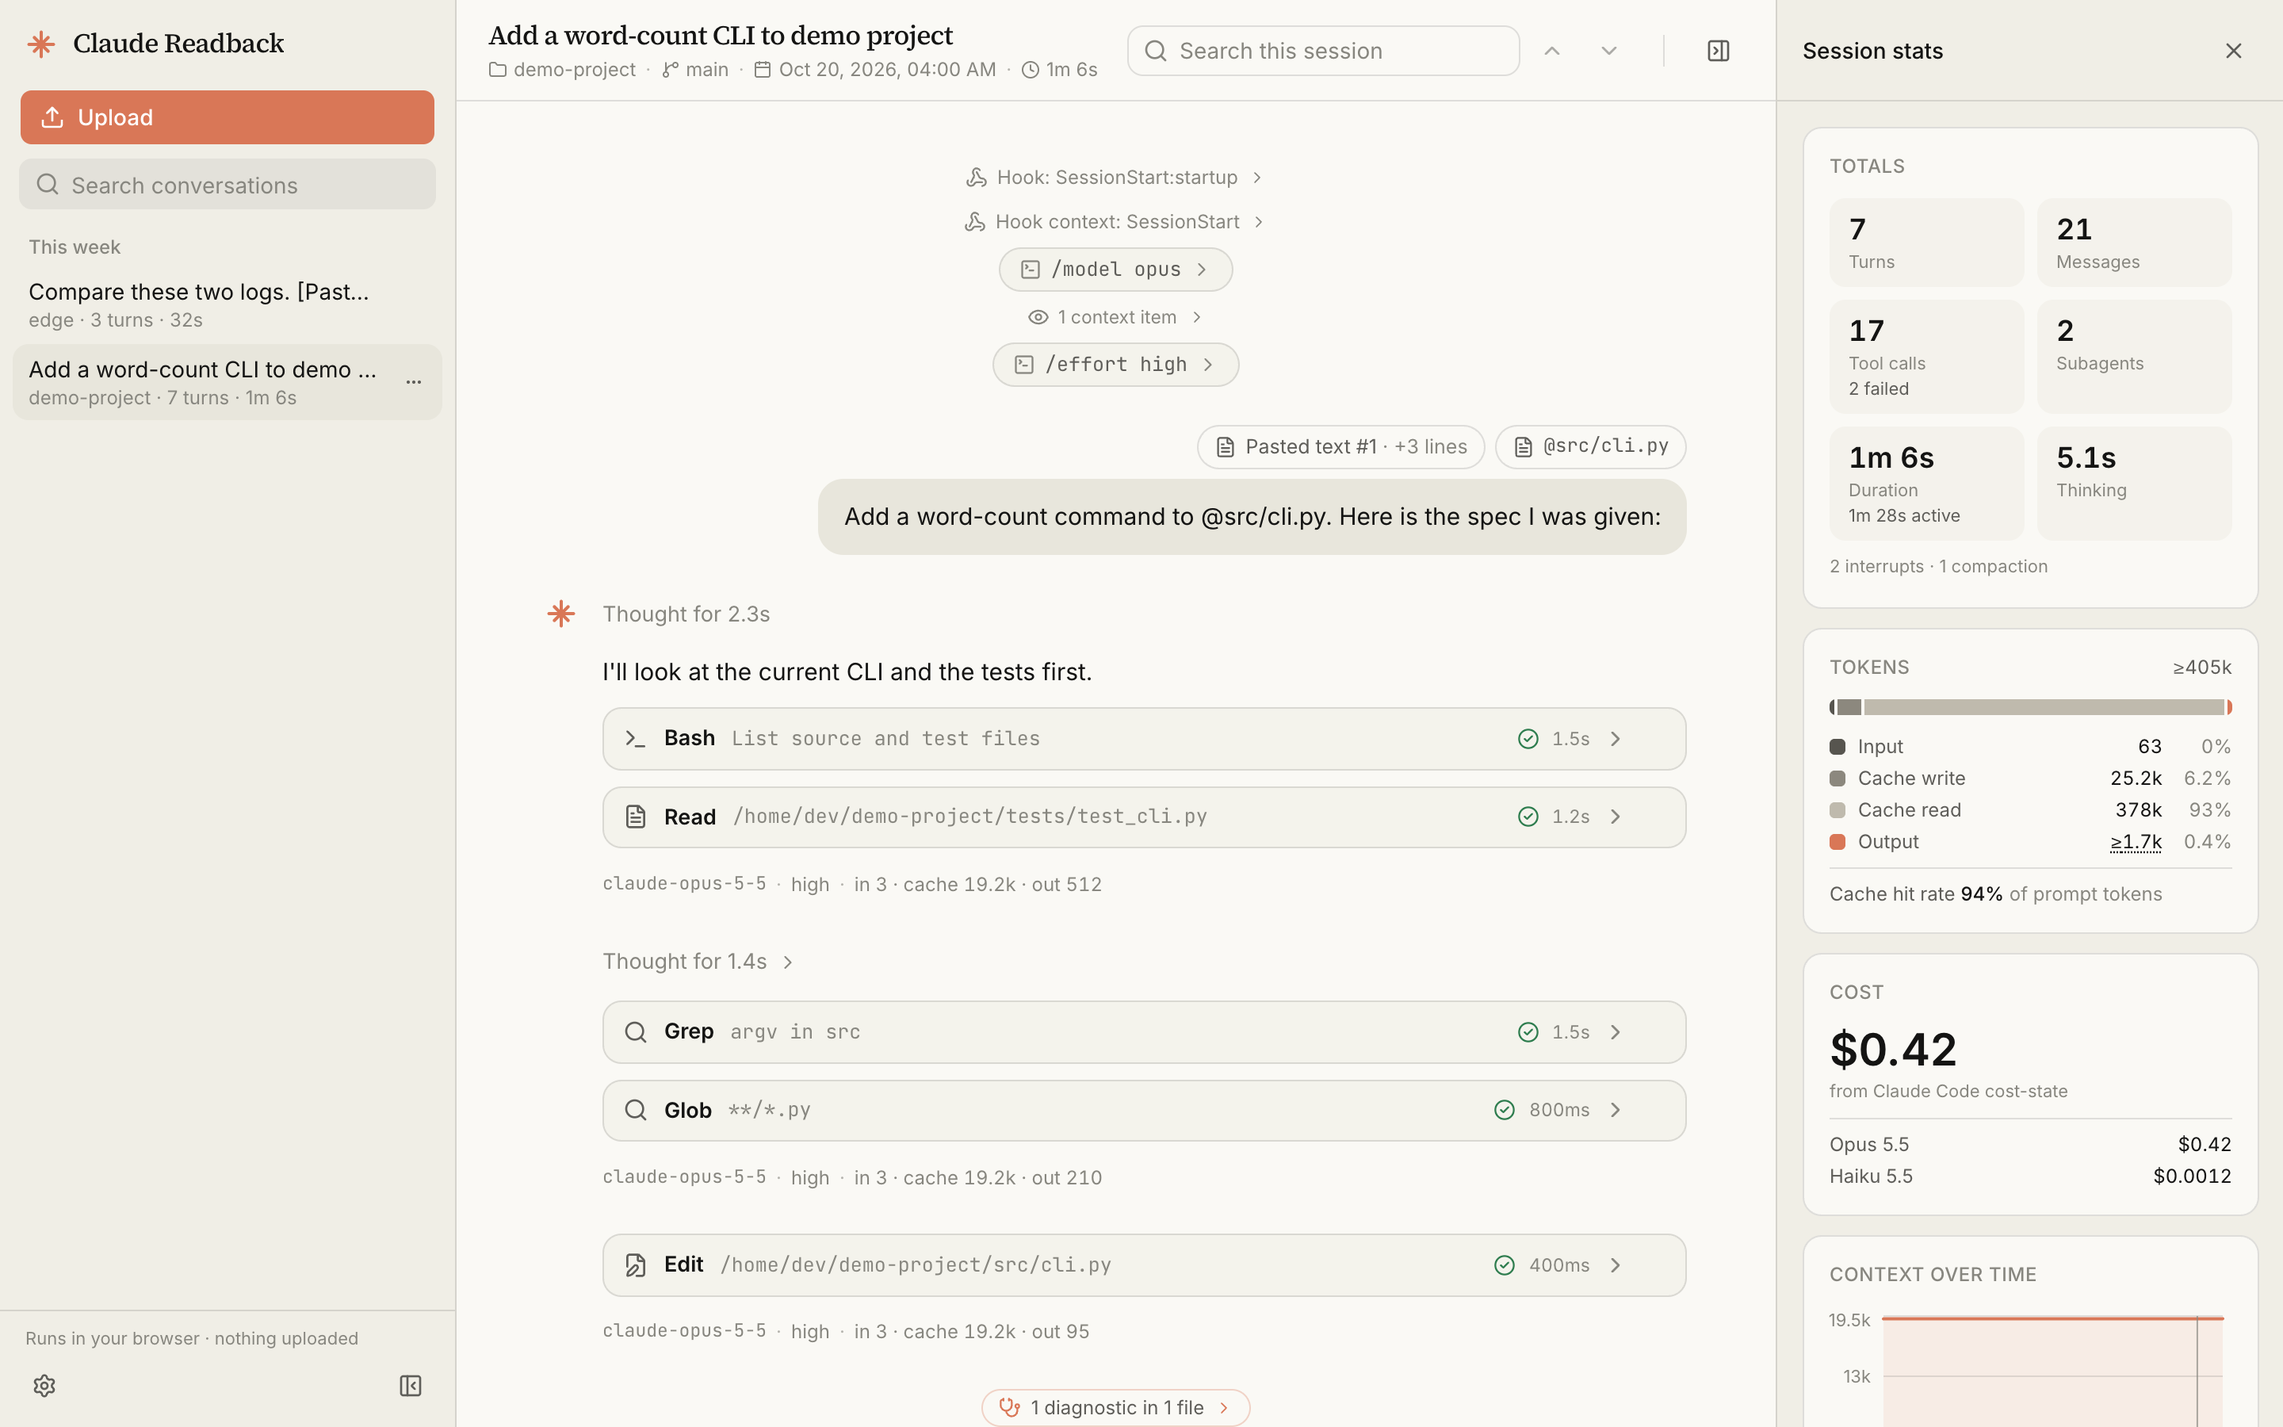
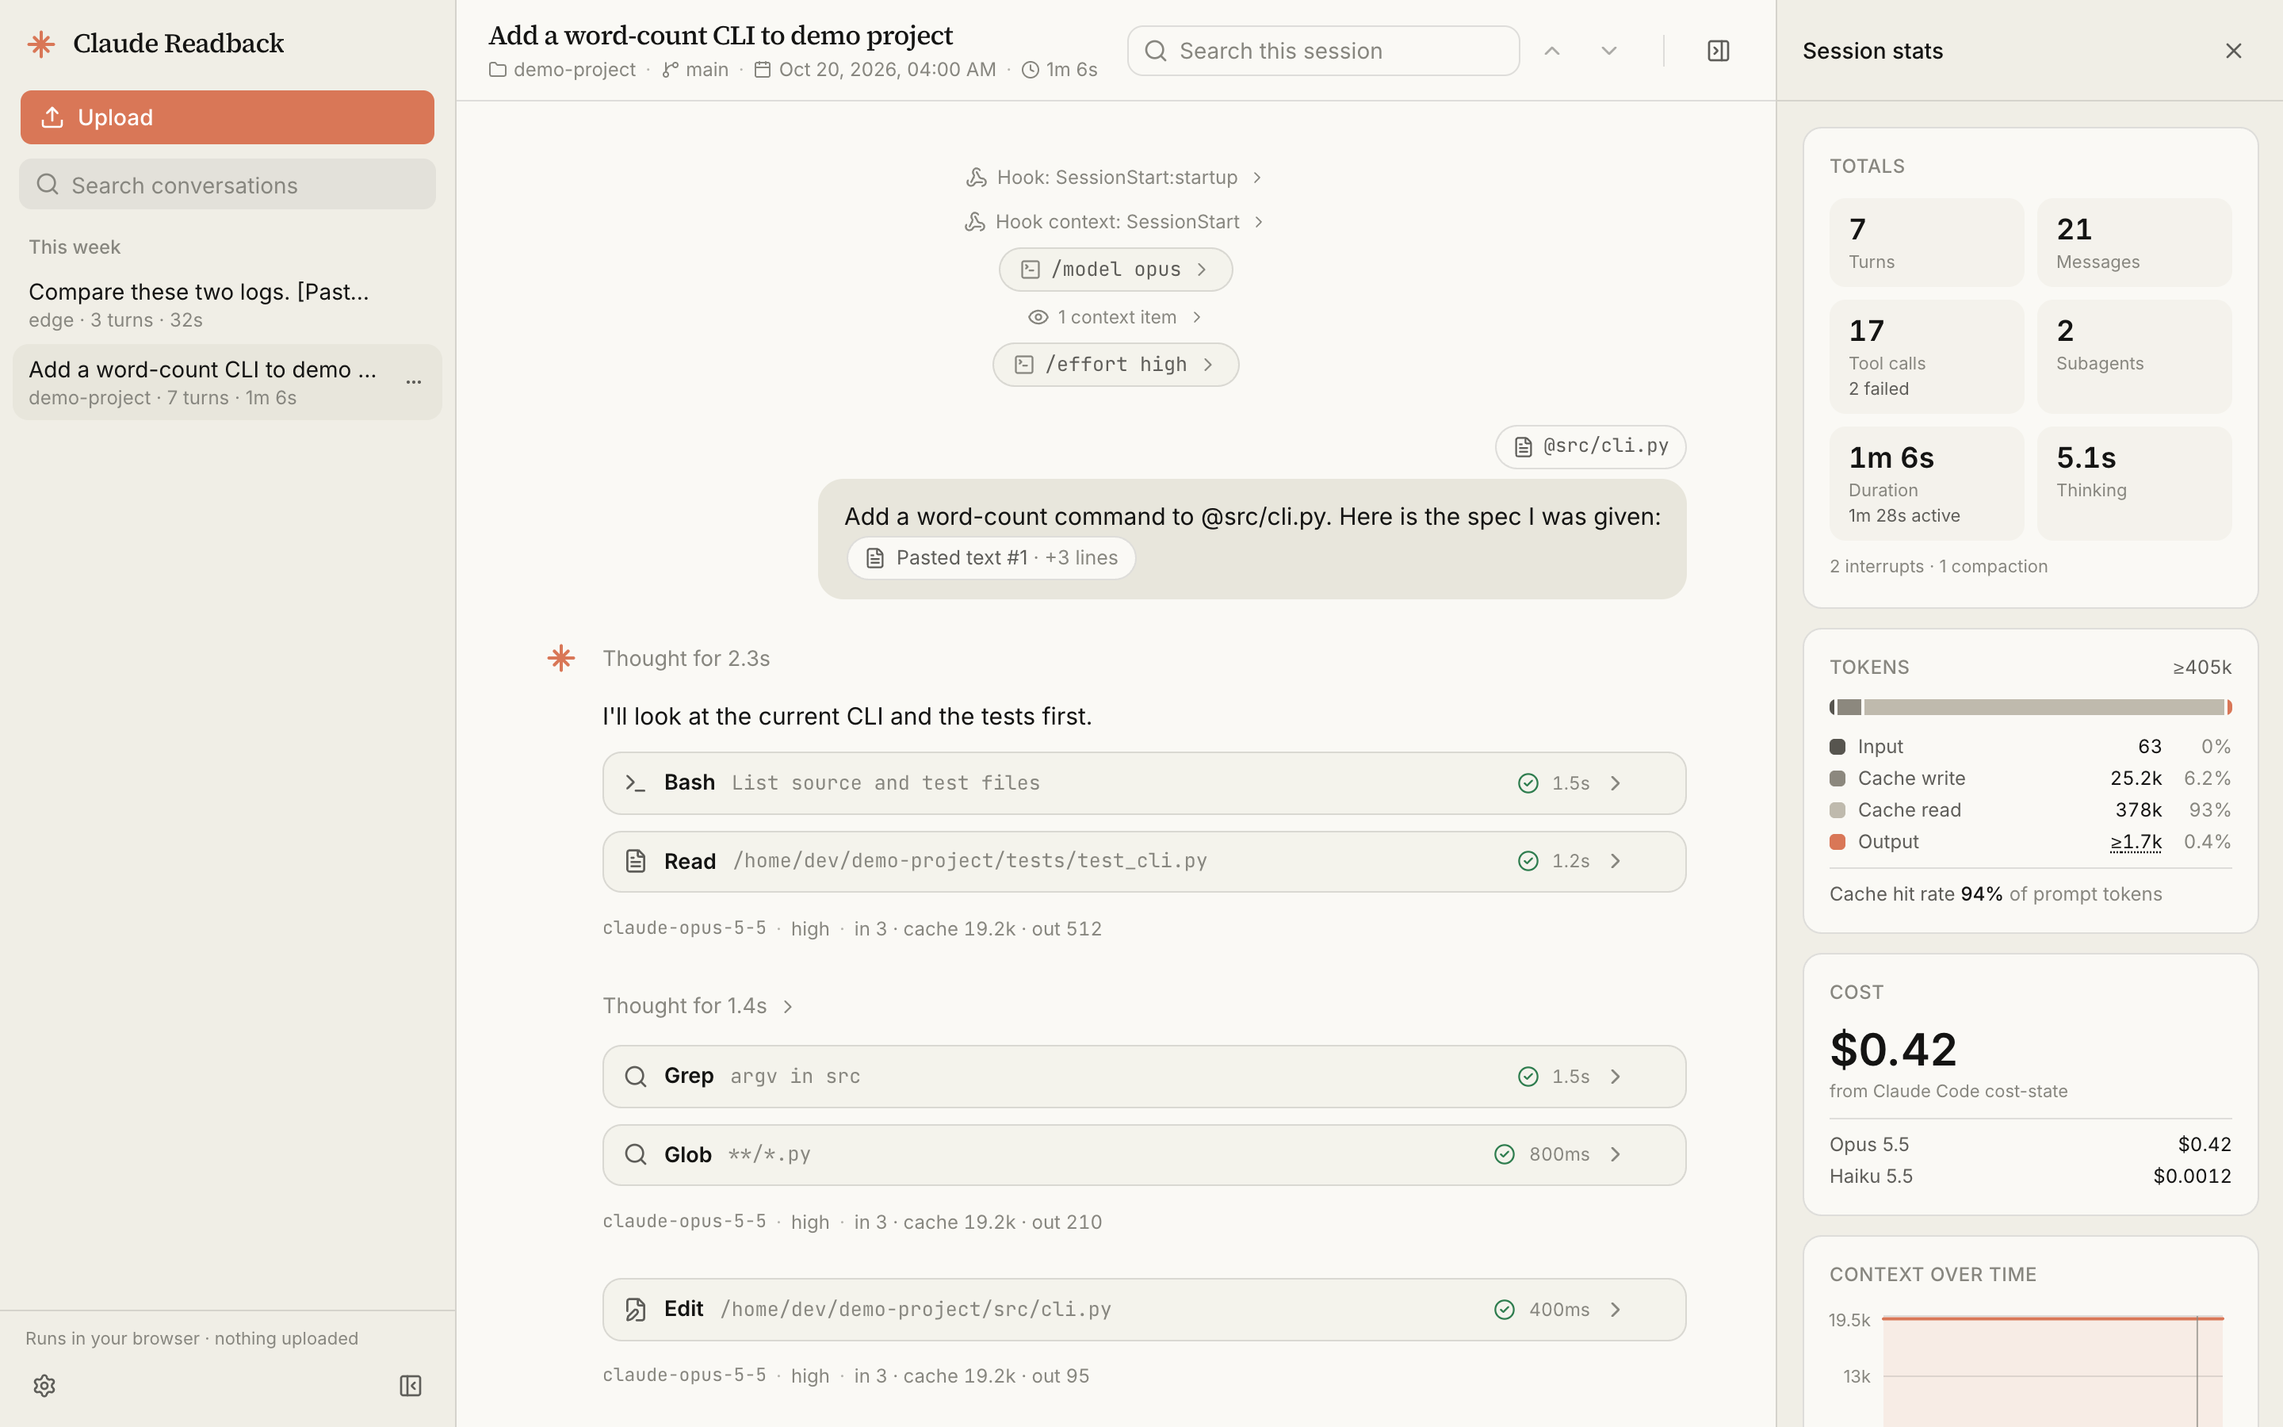
show pasted text chips inline in the bubble

diff --git a/src/components/chat/UserBubble.tsx b/src/components/chat/UserBubble.tsx
@@ -1,13 +1,51 @@
 import type { ReactNode } from 'react'
-import { highlightText } from '@/components/common/highlight'
+import { highlightText, splitActive } from '@/components/common/highlight'
+import type { PromptSegment } from '@/lib/transcript/types'
 import { cn } from '@/lib/utils'
 import { useSearchQuery } from './chatStore'
+import { PastedTextChip } from './PastedTextChip'
+import { promptBody } from './util'
 
-type Props = { text: string; activeIndex?: number; className?: string; children?: ReactNode }
+type Props = {
+  /** Plain text body. */
+  text?: string
+  /** Prompt segments: prose with pasted blocks as inline chips where they were pasted. Wins over `text`. */
+  segments?: readonly PromptSegment[]
+  /** Row the bubble renders in; scopes search hits inside inline chips. */
+  rowId?: string
+  activeIndex?: number
+  className?: string
+  children?: ReactNode
+}
 
 /** Right-aligned user bubble: plain text, whitespace preserved, no markdown or links. */
-export function UserBubble({ text, activeIndex, className, children }: Props) {
+export function UserBubble({ text, segments, rowId, activeIndex, className, children }: Props) {
   const query = useSearchQuery()
+  let body: ReactNode
+  if (segments) {
+    const parts = promptBody(segments)
+    const actives = splitActive(
+      parts.map((p) => (p.kind === 'text' ? p.text : undefined)),
+      query,
+      activeIndex,
+    )
+    body = parts.map((p, i) =>
+      p.kind === 'text' ? (
+        <span key={i}>{highlightText(p.text, query, actives[i])}</span>
+      ) : (
+        <PastedTextChip
+          key={p.id}
+          rowId={rowId}
+          index={p.index}
+          lines={p.lines}
+          text={p.text}
+          className="mx-0.5 align-middle"
+        />
+      ),
+    )
+  } else {
+    body = highlightText(text ?? '', query, activeIndex)
+  }
   return (
     <div
       className={cn(
@@ -16,7 +54,7 @@ export function UserBubble({ text, activeIndex, className, children }: Props) {
       )}
     >
       {children}
-      {highlightText(text, query, activeIndex)}
+      {body}
     </div>
   )
 }

diff --git a/src/components/chat/__tests__/rendering.test.tsx b/src/components/chat/__tests__/rendering.test.tsx
@@ -299,7 +299,7 @@ describe('Edit tool card', () => {
 })
 
 describe('pasted-only prompts', () => {
-  it('render the chip without an empty bubble', () => {
+  it('render the chip inside the bubble', () => {
     const turn = {
       ...session.turns.find((t) => t.kind === 'human')!,
       id: 'turn-pasted-only',
@@ -311,7 +311,36 @@ describe('pasted-only prompts', () => {
       },
     }
     renderInChat(<UserPromptRow turn={turn} />, session)
-    expect(screen.getByRole('button', { name: /Pasted text #9/ })).toBeInTheDocument()
-    expect(screen.getByTestId('user-prompt').querySelector('.bg-bubble')).toBeNull()
+    const bubble = screen.getByTestId('user-prompt').querySelector('.bg-bubble')!
+    expect(within(bubble as HTMLElement).getByRole('button', { name: /Pasted text #9/ })).toBeInTheDocument()
+  })
+})
+
+describe('inline pasted chips', () => {
+  it('sit in the bubble where the text was pasted, with other attachments above', () => {
+    const turn = {
+      ...session.turns.find((t) => t.kind === 'human')!,
+      id: 'turn-inline',
+      prompt: {
+        segments: [
+          { kind: 'text' as const, text: 'Compare these:\n\n\n' },
+          { kind: 'pasted' as const, id: 'a1', index: 1, lines: 1, text: 'x\ny' },
+          { kind: 'text' as const, text: '\nand\n' },
+          { kind: 'pasted' as const, id: 'b2', index: 2, lines: 0, text: 'z' },
+          { kind: 'system-reminder' as const, text: 'reminder body' },
+        ],
+        mentions: [],
+        rawText: '',
+        recordUuid: 'u-inline',
+      },
+    }
+    renderInChat(<UserPromptRow turn={turn} />, session)
+    const row = screen.getByTestId('user-prompt')
+    const bubble = row.querySelector('.bg-bubble') as HTMLElement
+    expect(bubble.textContent).toBe(
+      'Compare these:\nPasted text #1 · +1 lines\nand\nPasted text #2 · +0 lines',
+    )
+    const reminder = screen.getByRole('button', { name: /system reminder/ })
+    expect(bubble.contains(reminder)).toBe(false)
   })
 })

diff --git a/src/components/chat/util.ts b/src/components/chat/util.ts
@@ -14,6 +14,46 @@ export function promptText(turn: Turn): string {
   return segmentsText(turn.prompt?.segments ?? [])
 }
 
+export type BodyPart =
+  { kind: 'text'; text: string } | { kind: 'pasted'; id: string; index: number; lines: number; text: string }
+
+/** Whitespace a chip replaces: a line break if there was one, else a space, else nothing. */
+const edge = (ws: string) => (ws.includes('\n') ? '\n' : ws ? ' ' : '')
+
+/**
+ * What the bubble shows, in order: prose with pasted blocks as inline chips where they were pasted.
+ * Whitespace around a chip collapses to one line break (or one space); the ends are trimmed. Other
+ * segment kinds (images, documents, reminders) are chips above the bubble and are skipped here.
+ */
+export function promptBody(segments: readonly PromptSegment[]): BodyPart[] {
+  const inline = segments.filter((s) => s.kind === 'text' || s.kind === 'pasted')
+  const out: BodyPart[] = []
+  inline.forEach((s, i) => {
+    if (s.kind === 'pasted') {
+      out.push(s)
+      return
+    }
+    let text = s.text
+    const first = i === 0
+    const last = i === inline.length - 1
+    const lead = /^\s*/.exec(text)![0]
+    const trail = /\s*$/.exec(text)![0]
+    const core = text.slice(lead.length, Math.max(lead.length, text.length - trail.length))
+    if (core.length === 0) {
+      const sep = first || last ? '' : edge(text)
+      if (sep) out.push({ kind: 'text', text: sep })
+      return
+    }
+    text = (first ? '' : edge(lead)) + core + (last ? '' : edge(trail))
+    out.push({ kind: 'text', text })
+  })
+  return out
+}
+
+/** True when the bubble has something to show: prose or a pasted block. */
+export const hasPromptBody = (segments: readonly PromptSegment[]) =>
+  segments.some((s) => s.kind === 'pasted' || (s.kind === 'text' && s.text.trim().length > 0))
+
 export const dataUrl = (mediaType: string, base64: string) => `data:${mediaType};base64,${base64}`
 
 /** Inner text of the first `<tag>…</tag>` in `text`. */

diff --git a/src/components/chat/__tests__/promptBody.test.ts b/src/components/chat/__tests__/promptBody.test.ts
@@ -1,0 +1,52 @@
+import type { PromptSegment } from '@/lib/transcript/types'
+import { hasPromptBody, promptBody } from '../util'
+
+const pasted = (index: number): PromptSegment => ({
+  kind: 'pasted',
+  id: `p${index}`,
+  index,
+  lines: 1,
+  text: 'a\nb',
+})
+const text = (t: string): PromptSegment => ({ kind: 'text', text: t })
+
+describe('promptBody', () => {
+  it('collapses the newlines Claude Code puts around a paste to one line break', () => {
+    expect(promptBody([text('this is what I have\n\n\n\n'), pasted(1), text('\n')])).toEqual([
+      { kind: 'text', text: 'this is what I have\n' },
+      pasted(1),
+    ])
+  })
+  it('keeps a single space when the paste sits mid-line', () => {
+    expect(promptBody([text('see '), pasted(1), text(' please')])).toEqual([
+      { kind: 'text', text: 'see ' },
+      pasted(1),
+      { kind: 'text', text: ' please' },
+    ])
+  })
+  it('keeps whitespace-only text between two pastes as a separator', () => {
+    expect(promptBody([pasted(1), text('\n\n'), pasted(2)])).toEqual([
+      pasted(1),
+      { kind: 'text', text: '\n' },
+      pasted(2),
+    ])
+    expect(promptBody([pasted(1), text(''), pasted(2)])).toEqual([pasted(1), pasted(2)])
+  })
+  it('skips images, documents and reminders and trims the ends', () => {
+    expect(
+      promptBody([
+        { kind: 'image', mediaType: 'image/png', base64: '' },
+        text('  hi  '),
+        { kind: 'system-reminder', text: 'r' },
+      ]),
+    ).toEqual([{ kind: 'text', text: 'hi' }])
+  })
+})
+
+describe('hasPromptBody', () => {
+  it('is true for prose or a paste, false for attachments only', () => {
+    expect(hasPromptBody([text('  \n')])).toBe(false)
+    expect(hasPromptBody([pasted(1)])).toBe(true)
+    expect(hasPromptBody([{ kind: 'image', mediaType: 'image/png', base64: '' }])).toBe(false)
+  })
+})

diff --git a/src/components/chat/QueuedUserRow.tsx b/src/components/chat/QueuedUserRow.tsx
@@ -6,18 +6,28 @@ import { useActiveOccurrence } from './chatStore'
 import { QueuedBadge } from './QueuedBadge'
 import { RawJsonButton } from './RawJsonButton'
 import { UserBubble } from './UserBubble'
-import { segmentsText } from './util'
+import { hasPromptBody } from './util'
 
 /** A message typed while Claude was busy and delivered mid-turn. */
 export const QueuedUserRow = memo(function QueuedUserRow({ item }: { item: QueuedUserItem }) {
   const active = useActiveOccurrence(item.id, undefined, 'prompt')
-  // Pasted blocks are chips; the bubble shows only the prose (as the search index does).
-  const text = item.segments ? segmentsText(item.segments) : item.text
+  // Pasted blocks are inline chips in the bubble; other attachments are chips above it.
+  const show = item.segments ? hasPromptBody(item.segments) : item.text.length > 0
   return (
     <div className="group/row relative flex flex-col items-end gap-1.5" data-testid="queued-user">
       <QueuedBadge />
-      {item.segments && <AttachmentChips segments={item.segments} mentions={[]} rowId={item.id} />}
-      {text && <UserBubble text={text} activeIndex={active} className="border border-dashed border-border" />}
+      {item.segments && (
+        <AttachmentChips segments={item.segments} mentions={[]} rowId={item.id} omit={['pasted']} />
+      )}
+      {show && (
+        <UserBubble
+          text={item.text}
+          segments={item.segments}
+          rowId={item.id}
+          activeIndex={active}
+          className="border border-dashed border-border"
+        />
+      )}
       <div className="absolute -bottom-5 right-1 flex h-5 items-center gap-1 text-[11px] text-fg-muted">
         <RawJsonButton lines={[item.recordLine]} title="Raw queued message" />
         <time

diff --git a/src/components/chat/UserPromptRow.tsx b/src/components/chat/UserPromptRow.tsx
@@ -6,19 +6,25 @@ import { QueuedBadge } from './QueuedBadge'
 import { useActiveOccurrence } from './chatStore'
 import { RawJsonButton } from './RawJsonButton'
 import { UserBubble } from './UserBubble'
-import { promptText } from './util'
+import { hasPromptBody } from './util'
 
 /** A human prompt: attachment chips above a right-aligned bubble; timestamp + raw action on hover. */
 export const UserPromptRow = memo(function UserPromptRow({ turn }: { turn: Turn }) {
   const prompt = turn.prompt
   const active = useActiveOccurrence(turn.id, undefined, 'prompt')
   if (!prompt) return null
-  const text = promptText(turn)
   return (
     <div className="group/row relative flex flex-col items-end gap-1.5" data-testid="user-prompt">
       {prompt.queued && <QueuedBadge />}
-      <AttachmentChips segments={prompt.segments} mentions={prompt.mentions} rowId={turn.id} />
-      {text && <UserBubble text={text} activeIndex={active} />}
+      <AttachmentChips
+        segments={prompt.segments}
+        mentions={prompt.mentions}
+        rowId={turn.id}
+        omit={['pasted']}
+      />
+      {hasPromptBody(prompt.segments) && (
+        <UserBubble segments={prompt.segments} rowId={turn.id} activeIndex={active} />
+      )}
       <div className="absolute -bottom-5 right-1 flex h-5 items-center gap-1 text-[11px] text-fg-muted">
         <RawJsonButton lines={turn.recordLines} uuid={prompt.recordUuid} title="Raw prompt record" />
         <time

diff --git a/src/components/chat/AttachmentChips.tsx b/src/components/chat/AttachmentChips.tsx
@@ -14,6 +14,8 @@ type Props = {
   /** Row the prompt renders in; scopes search hits inside chips. */
   rowId?: string
   className?: string
+  /** Segment kinds rendered elsewhere (pasted blocks go inline in the bubble). */
+  omit?: readonly PromptSegment['kind'][]
 }
 
 /** Everything attached to a prompt that isn't prose: pasted blocks, images, documents, mentions, reminders. */
@@ -22,10 +24,13 @@ export const AttachmentChips = memo(function AttachmentChips({
   mentions,
   rowId,
   className,
+  omit,
 }: Props) {
   const images = segments.filter((s) => s.kind === 'image')
   // Keep each segment's index: search block ids (`sr:<i>`) are positions in `segments`.
-  const others = segments.flatMap((s, i) => (s.kind !== 'text' && s.kind !== 'image' ? [{ s, i }] : []))
+  const others = segments.flatMap((s, i) =>
+    s.kind !== 'text' && s.kind !== 'image' && !omit?.includes(s.kind) ? [{ s, i }] : [],
+  )
   if (images.length === 0 && others.length === 0 && mentions.length === 0) return null
   return (
     <div className={cn('flex max-w-[80%] flex-col items-end gap-1.5', className)}>

diff --git a/src/components/chat/PastedTextChip.tsx b/src/components/chat/PastedTextChip.tsx
@@ -12,16 +12,21 @@ type Props = {
   index: number
   lines: number
   text: string
+  className?: string
 }
 
 /** "Pasted text #1 · +60 lines" chip; opens the pasted block in a dialog with Copy. */
-export const PastedTextChip = memo(function PastedTextChip({ rowId, index, lines, text }: Props) {
+export const PastedTextChip = memo(function PastedTextChip({ rowId, index, lines, text, className }: Props) {
   const [open, setOpen] = useState(false)
   // Hits inside the pasted block mark the chip (the text itself lives in the dialog).
   const search = useChipSearch(text, rowId, `pasted:${index}`, 'pasted')
   return (
     <>
-      <button type="button" className={cn(CHIP, chipSearchClass(search))} onClick={() => setOpen(true)}>
+      <button
+        type="button"
+        className={cn(CHIP, chipSearchClass(search), className)}
+        onClick={() => setOpen(true)}
+      >
         <FileText />
         <span className="truncate">
           Pasted text #{index} <span className="text-fg-muted">· +{lines} lines</span>

diff --git a/README.md b/README.md
@@ -33,7 +33,8 @@ clear everything in Settings, and it is gone.
 
 ## What it shows
 
-Prompts with pastes, images, `@`-files and system reminders as chips; markdown responses with copyable code and
+Prompts with pasted text as chips inline where it was pasted, and images, `@`-files and system reminders as
+chips above; markdown responses with copyable code and
 thinking durations; tool calls as cards with per-tool views (terminal output, diffs, files, search results,
 questions, todos) plus errors, denials and hook output; subagent transcripts nested inline; queued messages,
 slash commands, compaction summaries, interrupts, API errors and other system events; hidden context behind a
